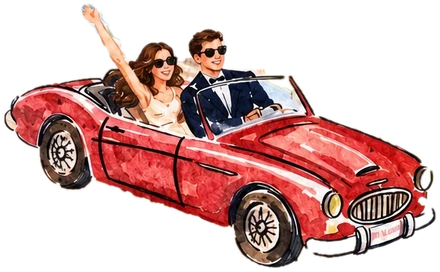
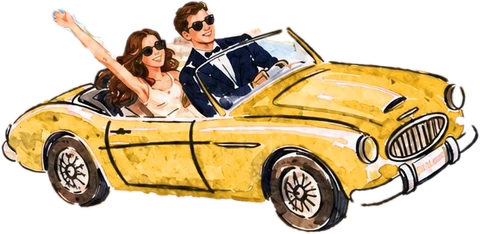
v2: yellow convertible level on the road, 'Wedding Day', gut feeling as a train ticket, watercolor spritz and testa di moro, travel page with a Benvenuti plane and painted day-trip stamps with links
Claude-Session: https://claude.ai/code/session_01UymhP7iFRcx3FYSxcPosG7

diff --git a/assets/js/art.js b/assets/js/art.js
@@ -51,12 +51,26 @@
     '<text font-size="11" letter-spacing="2"><textPath href="#pm-arc" startOffset="50%">SORRENTO</textPath></text>' +
     '<text x="60" y="64" font-size="12">1·10·27</text><text x="60" y="94" font-size="9" letter-spacing="2">ITALIA</text></g></symbol>';
 
+  // a watercolor treatment: wobbly edges, uneven pigment and a darker rim
+  // where the wash dries, so the little pieces sit with the painted car
+  var paint = '<filter id="wc" x="-10%" y="-10%" width="120%" height="120%" color-interpolation-filters="sRGB">' +
+    '<feTurbulence type="fractalNoise" baseFrequency="0.04" numOctaves="3" seed="3" result="n"/>' +
+    '<feDisplacementMap in="SourceGraphic" in2="n" scale="5" xChannelSelector="R" yChannelSelector="G" result="d"/>' +
+    '<feTurbulence type="fractalNoise" baseFrequency="0.12" numOctaves="2" seed="8" result="g"/>' +
+    '<feColorMatrix in="g" type="matrix" values="0 0 0 0 0  0 0 0 0 0  0 0 0 0 0  0 0 0 -0.55 1.3" result="ga"/>' +
+    '<feComposite in="d" in2="ga" operator="in" result="tex"/>' +
+    '<feMorphology in="d" operator="erode" radius="1.4" result="er"/>' +
+    '<feComposite in="d" in2="er" operator="out" result="rim"/>' +
+    '<feColorMatrix in="rim" type="matrix" values="0.7 0 0 0 0  0 0.7 0 0 0  0 0 0.7 0 0  0 0 0 0.55 0" result="rim2"/>' +
+    '<feComponentTransfer in="tex" result="tex2"><feFuncA type="linear" slope="0.88"/></feComponentTransfer>' +
+    '<feMerge><feMergeNode in="tex2"/><feMergeNode in="rim2"/></feMerge></filter>';
+
   /* Little Amalfi pieces in the same flat style as the stamp. */
   var PERI = "#7d9be6", CREAM = "#fcefdf", ORANGE = "#f07f22", INK = "#17245a";
 
   // a testa di moro: the painted ceramic head vases of Sicily and the coast,
   // a nod to Capo Santa Fortunata; drawn in blue-and-white majolica
-  var moor = '<symbol id="moor" viewBox="0 0 100 140">' +
+  var moor = '<symbol id="moor" viewBox="0 0 100 140"><g filter="url(#wc)">' +
     '<path d="M24 46C18 34 26 22 34 28C34 16 46 12 50 24C54 12 66 16 66 28C74 22 82 34 76 46Z" fill="' + PERI + '"/>' +
     '<ellipse cx="32" cy="28" rx="9" ry="7" fill="' + LEMON + '"/><ellipse cx="50" cy="20" rx="9" ry="7" fill="' + LEMON + '"/><ellipse cx="68" cy="28" rx="9" ry="7" fill="' + LEMON + '"/>' +
     '<path d="M28 36L23 24M72 36L77 24" stroke="' + COBALT + '" stroke-width="3" stroke-linecap="round"/>' +
@@ -69,7 +83,7 @@
     '<path d="M38 99L35 116H65L62 99Z" fill="' + COBALT + '"/>' +
     '<rect x="28" y="116" width="44" height="10" rx="3" fill="' + GOLD + '"/>' +
     '<path d="M38 107H62" stroke="' + CREAM + '" stroke-width="2" stroke-dasharray="2 4" stroke-linecap="round"/>' +
-    '</symbol>';
+    '</g></symbol>';
 
   // an Aperol spritz with a slice of orange
   function spritzGlass(x, a) {
@@ -82,11 +96,81 @@
       '<circle cx="62" cy="22" r="11" fill="' + ORANGE + '" stroke="#fff" stroke-width="2"/><path d="M62 13V31M53 22H71M56 16L68 28M68 16L56 28" stroke="#fff" stroke-width="1.2"/>' +
       '</g>';
   }
-  var spritz = '<symbol id="spritz" viewBox="0 -4 180 114">' + spritzGlass(4, -12) + spritzGlass(86, 12) +
-    '<path d="M85 4V14M76 8L80 16M94 8L90 16" stroke="' + GOLD + '" stroke-width="3" stroke-linecap="round"/></symbol>';
+  var spritz = '<symbol id="spritz" viewBox="0 -4 180 114"><g filter="url(#wc)">' + spritzGlass(4, -12) + spritzGlass(86, 12) +
+    '<path d="M85 4V14M76 8L80 16M94 8L90 16" stroke="' + GOLD + '" stroke-width="3" stroke-linecap="round"/></g></symbol>';
 
+
+  // a little plane towing a banner across the travel page, like the one
+  // on the couple's painted save-the-date
+  var plane = '<symbol id="plane" viewBox="0 0 300 70"><g filter="url(#wc)">' +
+    '<path d="M70 34H200" stroke="' + INK + '" stroke-width="1.5" opacity=".6"/>' +
+    '<path d="M196 18H290L280 34L290 50H196Z" fill="' + LEMON + '"/>' +
+    '<text x="243" y="40" text-anchor="middle" font-family="Norican, cursive" font-size="17" fill="' + COBALT + '">Benvenuti!</text>' +
+    '<path d="M8 30C8 24 16 22 30 22H58C66 22 70 28 70 32C70 38 64 40 56 40H24C14 40 8 36 8 30Z" fill="' + COBALT + '"/>' +
+    '<path d="M30 30L22 8H32L46 30Z" fill="' + PERI + '"/><path d="M30 34L20 56H30L46 34Z" fill="' + PERI + '"/>' +
+    '<path d="M8 30L2 18H10L16 28Z" fill="' + PERI + '"/>' +
+    '<circle cx="54" cy="29" r="4" fill="#fff"/><path d="M70 22V42" stroke="' + INK + '" stroke-width="3" stroke-linecap="round"/>' +
+    '</g></symbol>';
+
+  /* Stamp pictures for the travel page's day trips, painted in the same
+     watercolor treatment: Capri, Positano, Pompeii, the Path of the Gods,
+     limoncello and the Bagni della Regina Giovanna. */
+  var SKY = "#d6e1f7", SEA = "#4c72d0", TERRA = "#c8673e", OLIVE = "#7f9a52", STONE = "#e6d6b8";
+  function view(id, body) {
+    return '<symbol id="' + id + '" viewBox="0 0 120 100"><g filter="url(#wc)"><rect width="120" height="100" fill="' + SKY + '"/>' + body + '</g></symbol>';
+  }
+  var waves = '<path d="M0 84C10 81 18 87 28 84S46 81 56 84S74 87 84 84S102 81 120 84" fill="none" stroke="' + PERI + '" stroke-width="2.5" stroke-linecap="round"/>';
+  var trips =
+    view("trip-capri",
+      '<circle cx="94" cy="24" r="10" fill="' + LEMON + '"/>' +
+      '<path d="M0 70H120V100H0Z" fill="' + SEA + '"/>' +
+      '<path d="M14 72C16 50 24 40 30 40C36 40 40 54 42 72Z" fill="' + STONE + '"/>' +
+      '<path d="M44 72C46 44 54 30 60 30C68 30 72 48 74 72Z" fill="#d8c29c"/>' +
+      '<path d="M78 72C80 56 86 50 92 50C98 50 102 60 104 72Z" fill="' + STONE + '"/>' +
+      '<path d="M52 72C56 64 64 64 66 72Z" fill="' + SEA + '"/>' + waves +
+      '<path d="M86 78L88 66L94 77Z" fill="#fff"/><path d="M82 79H98L95 82H85Z" fill="' + COBALT + '"/>') +
+    view("trip-positano",
+      '<path d="M0 30C30 20 60 26 90 18L120 14V100H0Z" fill="' + OLIVE + '" opacity=".7"/>' +
+      '<path d="M0 74H120V100H0Z" fill="' + SEA + '"/>' +
+      '<g>' +
+      '<rect x="16" y="56" width="16" height="16" fill="' + LEMON + '"/><rect x="34" y="50" width="14" height="22" fill="' + CREAM + '"/>' +
+      '<rect x="50" y="44" width="16" height="28" fill="' + TERRA + '"/><rect x="68" y="52" width="14" height="20" fill="#fff"/>' +
+      '<rect x="84" y="46" width="18" height="26" fill="' + LEMON + '"/><rect x="40" y="34" width="14" height="14" fill="#fff"/>' +
+      '<rect x="60" y="30" width="14" height="14" fill="' + CREAM + '"/><rect x="78" y="34" width="12" height="12" fill="' + TERRA + '"/>' +
+      '<path d="M54 44C54 32 66 32 66 44Z" fill="' + COBALT + '"/><path d="M58 40C58 36 62 36 62 40" stroke="' + GOLD + '" stroke-width="1.5" fill="none"/>' +
+      '</g>' +
+      '<path d="M20 62h3M38 58h3M72 58h3M88 54h3M88 62h3M44 40h3M64 36h3" stroke="' + INK + '" stroke-width="2" opacity=".6"/>' + waves) +
+    view("trip-pompeii",
+      '<path d="M0 62L34 22C38 18 42 18 46 22L84 62Z" fill="#9a8f9c"/>' +
+      '<path d="M30 26C30 18 36 12 42 14C46 8 54 10 54 16" fill="none" stroke="#fff" stroke-width="4" stroke-linecap="round" opacity=".8"/>' +
+      '<path d="M0 62H120V100H0Z" fill="' + STONE + '"/>' +
+      '<rect x="56" y="34" width="56" height="7" fill="#d8c29c"/>' +
+      '<rect x="60" y="41" width="8" height="40" fill="#f3e9d6"/><rect x="78" y="41" width="8" height="40" fill="#f3e9d6"/><rect x="96" y="41" width="8" height="34" fill="#f3e9d6"/>' +
+      '<rect x="56" y="81" width="52" height="5" fill="#d8c29c"/>' +
+      '<path d="M10 90H40" stroke="#d8c29c" stroke-width="3" stroke-linecap="round"/>') +
+    view("trip-gods",
+      '<circle cx="26" cy="22" r="10" fill="' + LEMON + '"/>' +
+      '<path d="M0 60L30 34L52 48L78 26L120 52V100H0Z" fill="' + OLIVE + '"/>' +
+      '<path d="M0 78H120V100H0Z" fill="' + SEA + '"/>' +
+      '<path d="M10 70C30 62 44 60 58 52S86 40 108 46" fill="none" stroke="' + CREAM + '" stroke-width="2.5" stroke-dasharray="4 4" stroke-linecap="round"/>' +
+      '<path d="M86 44L84 38L88 38Z" fill="' + COBALT + '"/><circle cx="86" cy="35" r="2.4" fill="' + COBALT + '"/>' + waves) +
+    view("trip-lemons",
+      '<path d="M0 72H120V100H0Z" fill="' + STONE + '"/>' +
+      '<path d="M50 20H62V30C70 36 72 44 72 54V84H40V54C40 44 42 36 50 30Z" fill="#f7e48a"/>' +
+      '<path d="M50 14H62V22H50Z" fill="' + COBALT + '"/>' +
+      '<rect x="44" y="52" width="24" height="16" rx="2" fill="#fff"/><path d="M48 60H64" stroke="' + COBALT + '" stroke-width="2"/>' +
+      '<ellipse cx="88" cy="80" rx="12" ry="9" fill="' + LEMON + '"/><ellipse cx="24" cy="82" rx="11" ry="8" fill="' + LEMON + '"/>' +
+      '<path d="M84 70C90 62 98 62 102 66C96 70 90 72 84 70Z" fill="' + OLIVE + '"/><path d="M28 74C22 66 14 66 10 70C16 74 22 76 28 74Z" fill="' + OLIVE + '"/>') +
+    view("trip-bagni",
+      '<path d="M0 40C20 34 34 40 44 46V100H0Z" fill="' + STONE + '"/>' +
+      '<path d="M120 36C100 32 86 40 78 46V100H120Z" fill="' + STONE + '"/>' +
+      '<path d="M40 50C46 36 74 36 82 50V58H40Z" fill="' + STONE + '"/>' +
+      '<path d="M46 58C48 46 74 46 76 58Z" fill="' + SKY + '"/>' +
+      '<path d="M22 66C40 60 82 60 100 66C96 82 74 88 60 88C44 88 26 82 22 66Z" fill="#5fc0d0"/>' +
+      '<path d="M34 72C44 70 52 74 62 72S80 70 88 72" stroke="#fff" stroke-width="2" fill="none" opacity=".8" stroke-linecap="round"/>' +
+      '<circle cx="60" cy="74" r="2.6" fill="' + TERRA + '"/>');
 
   document.body.insertAdjacentHTML("afterbegin",
     '<svg xmlns="http://www.w3.org/2000/svg" width="0" height="0" style="position:absolute" aria-hidden="true" focusable="false"><defs>' +
-    sprig + bow + swash + postmark + stampView + moor + spritz + "</defs></svg>");
+    sprig + bow + swash + postmark + stampView + paint + moor + spritz + trips + plane + "</defs></svg>");
 })();

diff --git a/assets/css/styles.css b/assets/css/styles.css
@@ -406,7 +406,7 @@ html.paged .fade.shown { opacity: 1; transform: none; }
 /* little Amalfi touches: the two of us driving in, testa di moro vases, spritzes */
 .doodle { display: block; overflow: visible; pointer-events: none; }
 .story-road { width: min(100%, 300px); display: flex; justify-content: center; border-bottom: 2px dashed var(--gold); margin-top: 2px; }
-.story-car { width: 200px; height: auto; margin-bottom: -6px; }
+.story-car { width: 210px; height: auto; margin-bottom: -2px; }
 html.paged .page-story.shown .story-car { animation: drive-in 2.8s cubic-bezier(0.25, 0.7, 0.25, 1) 0.6s both, putt 0.4s ease-in-out 0.6s 7; }
 @keyframes drive-in { from { translate: -190px 0; opacity: 0; } 15% { opacity: 1; } }
 @keyframes putt { 50% { margin-bottom: -4px; } }
@@ -439,6 +439,60 @@ html.paged .page-venue:not(.shown) .gallery figure:last-child { transform: trans
 @media (min-width: 900px) {
   .story { grid-template-columns: 300px minmax(0, 32rem); justify-content: center; column-gap: clamp(48px, 6vw, 80px); row-gap: 14px; align-items: center; align-content: center; }
   .story .arch-wrap { grid-row: 1 / span 5; width: 100%; margin-bottom: 0; align-self: center; }
+}
+
+/* Gut feeling: a cream train ticket to Sorrento on the stripes, with a
+   lemon-coloured stub, notches where it tears off and a perforated line. */
+.ticket {
+  --stub: 200px;
+  --notch: 16px;
+  position: relative;
+  max-width: 860px;
+  margin: 0 auto;
+  display: grid;
+  grid-template-columns: var(--stub) minmax(0, 1fr);
+  background: var(--card);
+  border-radius: 18px;
+  -webkit-mask:
+    radial-gradient(circle var(--notch) at var(--stub) 0, #0000 98%, #000) top / 100% 51% no-repeat,
+    radial-gradient(circle var(--notch) at var(--stub) 100%, #0000 98%, #000) bottom / 100% 51% no-repeat;
+  mask:
+    radial-gradient(circle var(--notch) at var(--stub) 0, #0000 98%, #000) top / 100% 51% no-repeat,
+    radial-gradient(circle var(--notch) at var(--stub) 100%, #0000 98%, #000) bottom / 100% 51% no-repeat;
+}
+.page-reply .wrap { filter: drop-shadow(0 18px 30px rgba(23, 36, 90, 0.28)); }
+.ticket-stub {
+  display: grid; align-content: center; justify-items: center; gap: 10px;
+  padding: 28px 18px;
+  background: var(--lemon-soft);
+  border-right: 3px dotted rgba(29, 63, 189, 0.35);
+  border-radius: 18px 0 0 18px;
+  text-align: center; color: var(--cobalt);
+}
+.stub-kind { font-family: var(--script); font-size: 2.1rem; line-height: 1; }
+.stub-route, .stub-date, .stub-no { font-size: 0.75rem; letter-spacing: 0.2em; text-transform: uppercase; font-weight: 500; }
+.stub-route i { font-style: normal; color: var(--gold); }
+.stub-date { font-size: 0.95rem; letter-spacing: 0.16em; padding: 4px 10px; border: 1.5px solid var(--cobalt); border-radius: 4px; }
+.stub-no { color: var(--ink-soft); font-size: 0.68rem; }
+.ticket .feel-panel { padding: clamp(28px, 5vw, 48px) clamp(22px, 5vw, 52px); max-width: none; }
+.ticket .spritz { width: 120px; height: 76px; margin: 2px 0; }
+@media (max-width: 700px) {
+  .ticket {
+    --stub: 0px;
+    grid-template-columns: minmax(0, 1fr);
+    -webkit-mask:
+      radial-gradient(circle var(--notch) at 0 152px, #0000 98%, #000) left / 51% 100% no-repeat,
+      radial-gradient(circle var(--notch) at 100% 152px, #0000 98%, #000) right / 51% 100% no-repeat;
+    mask:
+      radial-gradient(circle var(--notch) at 0 152px, #0000 98%, #000) left / 51% 100% no-repeat,
+      radial-gradient(circle var(--notch) at 100% 152px, #0000 98%, #000) right / 51% 100% no-repeat;
+  }
+  .ticket-stub {
+    height: 152px; grid-template-columns: auto auto; column-gap: 18px; row-gap: 6px; align-content: center;
+    border-right: 0; border-bottom: 3px dotted rgba(29, 63, 189, 0.35); border-radius: 18px 18px 0 0; padding: 16px;
+  }
+  .ticket-stub .spritz { grid-row: 1 / span 4; width: 96px; height: 61px; }
+  .ticket-stub > span { justify-self: start; }
 }
 
 /* Gut feeling */
@@ -599,6 +653,48 @@ td.num { font-variant-numeric: tabular-nums; white-space: nowrap; font-weight: 5
 .weather div { display: grid; }
 .weather b { font-weight: 500; font-size: var(--step-3); line-height: 1.1; font-variant-numeric: tabular-nums; color: var(--cobalt); }
 .weather span { font-size: var(--step--1); color: var(--ink-soft); }
+
+/* the little plane drifts across the top of the travel page, towing its banner */
+.page-intro { overflow: hidden; }
+.intro-plane { position: absolute; top: clamp(24px, 6vh, 64px); right: 6%; width: clamp(220px, 30vw, 340px); height: auto; aspect-ratio: 300 / 70; }
+html.paged .page-intro.shown .intro-plane { animation: fly-in 3.5s cubic-bezier(0.2, 0.7, 0.2, 1) both, float 5s ease-in-out 3.5s infinite; }
+@keyframes fly-in { from { translate: 60vw 20px; } }
+@keyframes float { 50% { translate: 0 -6px; } }
+@media (max-width: 760px) { .intro-plane { position: relative; top: 0; right: auto; display: block; margin: 0 0 8px auto; width: 220px; } }
+
+/* Day trips: cream cards on the stripes, each with a perforated stamp
+   painted with the place, set at a slight tilt like stamps on a letter. */
+.explore-head { max-width: 40rem; margin: 0 auto 36px; padding: 22px 28px 26px; text-align: center; display: grid; gap: 4px; background: var(--card); border-radius: 18px; }
+.explore-head p:last-child { color: var(--ink-soft); }
+.trips { display: grid; grid-template-columns: repeat(auto-fit, minmax(250px, 1fr)); gap: 26px; }
+.trip {
+  position: relative; display: grid; gap: 6px; align-content: start;
+  padding: 22px 22px 20px; background: var(--card); border-radius: 18px;
+  box-shadow: 0 14px 28px rgba(23, 36, 90, 0.22);
+}
+.trip-stamp {
+  --r: 4px;
+  justify-self: start; width: 132px; padding: 8px 8px 9px; margin: -46px 0 8px -4px;
+  background: #fffdf8;
+  -webkit-mask:
+    linear-gradient(#000 0 0) center / calc(100% - 2 * var(--r)) calc(100% - 2 * var(--r)) no-repeat,
+    radial-gradient(circle closest-side, #000 97%, #0000) 0 0 / calc(2 * var(--r) + 2px) calc(2 * var(--r) + 2px) round;
+  mask:
+    linear-gradient(#000 0 0) center / calc(100% - 2 * var(--r)) calc(100% - 2 * var(--r)) no-repeat,
+    radial-gradient(circle closest-side, #000 97%, #0000) 0 0 / calc(2 * var(--r) + 2px) calc(2 * var(--r) + 2px) round;
+  transform: rotate(-4deg);
+  transition: transform 0.4s ease;
+}
+.trip:nth-child(2n) .trip-stamp { transform: rotate(3deg); }
+.trip:nth-child(3n) .trip-stamp { transform: rotate(-2deg); }
+.trip:hover .trip-stamp { transform: rotate(0) scale(1.04); }
+.trip-stamp svg { display: block; width: 100%; height: auto; aspect-ratio: 120 / 100; }
+.trips { padding-top: 34px; }
+.trip-meta { font-size: 0.75rem; letter-spacing: 0.2em; text-transform: uppercase; font-weight: 500; color: #b97a00; }
+.trip h3 { font-family: var(--script); font-weight: 400; font-size: 1.9rem; line-height: 1.1; color: var(--cobalt); }
+.trip p:not(.trip-meta) { font-size: var(--step--1); color: var(--ink-soft); }
+.trip-link { justify-self: start; margin-top: 6px; font-size: 0.8125rem; letter-spacing: 0.12em; text-transform: uppercase; font-weight: 500; text-decoration: none; border-bottom: 2px solid var(--gold); padding-bottom: 2px; }
+.trip-link:hover { color: var(--cobalt-deep); border-color: var(--cobalt); }
 
 /* ---------- Footer ---------- */
 .footer-inner {

diff --git a/travel.html b/travel.html
@@ -17,6 +17,7 @@
 
 <main>
   <section class="page page-intro fade">
+    <svg class="doodle intro-plane" viewBox="0 0 300 70" aria-hidden="true" focusable="false"><use href="#plane"/></svg>
     <div class="wrap section-head">
       <p class="script">Buon viaggio!</p>
       <h1 class="page-title">Getting to Sorrento</h1>
@@ -114,19 +115,57 @@
     </div>
   </section>
 
-  <section class="page fade" id="explore">
+  <!-- Day trips as a sheet of painted stamps, each with how far it is and a link. -->
+  <section class="page page-explore stripes fade" id="explore">
     <div class="wrap">
-      <div class="section-head">
+      <div class="explore-head">
+        <p class="script">Andiamo!</p>
         <h2>While you're here</h2>
-        <p>A few of our favorite ways to spend a free day.</p>
+        <p>A few of our favorite ways to spend a free day on the coast.</p>
       </div>
-      <div class="tips">
-        <div><h3>Capri</h3><p>About 25 minutes by ferry from Sorrento's Marina Piccola. Go early to beat the crowds at the Blue Grotto.</p></div>
-        <div><h3>Positano &amp; Amalfi</h3><p>Take the ferry along the coast for the best views, then wander the towns and come back by boat or bus.</p></div>
-        <div><h3>Pompeii</h3><p>About 30 minutes away on the Circumvesuviana. Allow half a day and bring water.</p></div>
-        <div><h3>Path of the Gods</h3><p>A famous clifftop hike above Positano. Moderate, about three hours, and unforgettable.</p></div>
-        <div><h3>Lemons, everywhere</h3><p>Visit a lemon grove, try a cooking class, and taste limoncello where it was born.</p></div>
-        <div><h3>Bagni della Regina Giovanna</h3><p>A natural rock pool and Roman ruins a short walk from town. Perfect for a swim.</p></div>
+      <div class="trips">
+        <article class="trip">
+          <div class="trip-stamp" aria-hidden="true"><svg viewBox="0 0 120 100" focusable="false"><use href="#trip-capri"/></svg></div>
+          <p class="trip-meta">25 min by ferry</p>
+          <h3>Capri</h3>
+          <p>Boats leave Sorrento's Marina Piccola all morning. Go early to beat the crowds at the Blue Grotto, then ride the chairlift up Monte Solaro.</p>
+          <a class="trip-link" href="https://www.google.com/maps/search/?api=1&amp;query=Marina+Piccola+Sorrento" target="_blank" rel="noopener">Ferry dock on the map <span aria-hidden="true">→</span></a>
+        </article>
+        <article class="trip">
+          <div class="trip-stamp" aria-hidden="true"><svg viewBox="0 0 120 100" focusable="false"><use href="#trip-positano"/></svg></div>
+          <p class="trip-meta">1 hr by boat or bus</p>
+          <h3>Positano &amp; Amalfi</h3>
+          <p>Take the ferry along the coast for the best views, wander the stairways of both towns, and come back by boat at sunset.</p>
+          <a class="trip-link" href="https://www.google.com/maps/search/?api=1&amp;query=Positano+Italy" target="_blank" rel="noopener">Positano on the map <span aria-hidden="true">→</span></a>
+        </article>
+        <article class="trip">
+          <div class="trip-stamp" aria-hidden="true"><svg viewBox="0 0 120 100" focusable="false"><use href="#trip-pompeii"/></svg></div>
+          <p class="trip-meta">30 min by train</p>
+          <h3>Pompeii</h3>
+          <p>A whole Roman city under Vesuvius, an easy ride on the Circumvesuviana. Allow half a day and bring water and a hat.</p>
+          <a class="trip-link" href="https://pompeiisites.org/en/" target="_blank" rel="noopener">Tickets and hours <span aria-hidden="true">→</span></a>
+        </article>
+        <article class="trip">
+          <div class="trip-stamp" aria-hidden="true"><svg viewBox="0 0 120 100" focusable="false"><use href="#trip-gods"/></svg></div>
+          <p class="trip-meta">3 hr hike</p>
+          <h3>Path of the Gods</h3>
+          <p>The famous clifftop trail from Bomerano down toward Positano. Moderate, with views you won't forget. Wear real shoes.</p>
+          <a class="trip-link" href="https://www.google.com/maps/search/?api=1&amp;query=Sentiero+degli+Dei+Bomerano" target="_blank" rel="noopener">Trailhead on the map <span aria-hidden="true">→</span></a>
+        </article>
+        <article class="trip">
+          <div class="trip-stamp" aria-hidden="true"><svg viewBox="0 0 120 100" focusable="false"><use href="#trip-lemons"/></svg></div>
+          <p class="trip-meta">In town</p>
+          <h3>Lemons &amp; limoncello</h3>
+          <p>Walk through a lemon grove, try a cooking class, and taste limoncello where it was born.</p>
+          <a class="trip-link" href="https://www.google.com/maps/search/?api=1&amp;query=I+Giardini+di+Cataldo+Sorrento" target="_blank" rel="noopener">A lemon grove in Sorrento <span aria-hidden="true">→</span></a>
+        </article>
+        <article class="trip">
+          <div class="trip-stamp" aria-hidden="true"><svg viewBox="0 0 120 100" focusable="false"><use href="#trip-bagni"/></svg></div>
+          <p class="trip-meta">20 min walk</p>
+          <h3>Bagni della Regina Giovanna</h3>
+          <p>A natural rock pool ringed by Roman ruins at the edge of town. Bring a towel: it's the best swim in Sorrento.</p>
+          <a class="trip-link" href="https://www.google.com/maps/search/?api=1&amp;query=Bagni+della+Regina+Giovanna+Sorrento" target="_blank" rel="noopener">Rock pool on the map <span aria-hidden="true">→</span></a>
+        </article>
       </div>
     </div>
   </section>

diff --git a/index.html b/index.html
@@ -100,11 +100,11 @@
           <div class="date">
             <span class="date-num"><b>1</b><svg class="swash" aria-hidden="true" focusable="false"><use href="#swash"/></svg></span>
             <span class="date-it">Friday · October</span>
-            <span class="date-en">We say yes</span>
+            <span class="date-en">Wedding Day</span>
           </div>
         </div>
         <p class="story-note">We know Italy is a long way to come, so we're telling you early. Formal invitation to follow.</p>
-        <div class="story-road"><img class="story-car" src="assets/img/us-car.webp" alt="McKenna and Chandler waving from a red convertible" width="440" height="272" loading="lazy"></div>
+        <div class="story-road"><img class="story-car" src="assets/img/us-car.webp" alt="McKenna and Chandler waving from a yellow convertible" width="480" height="234" loading="lazy"></div>
       </div>
     </section>
 
@@ -139,8 +139,16 @@
 
     <section class="page page-reply stripes fade" id="reply">
       <div class="wrap">
-        <div class="feel-panel scallop">
-          <svg class="doodle spritz" viewBox="0 -4 180 114" aria-hidden="true" focusable="false"><use href="#spritz"/></svg>
+        <!-- A train ticket to Sorrento: a stub on the left, the question on the right. -->
+        <div class="ticket">
+          <div class="ticket-stub" aria-hidden="true">
+            <span class="stub-kind">Biglietto</span>
+            <svg class="doodle spritz" viewBox="0 -4 180 114" focusable="false"><use href="#spritz"/></svg>
+            <span class="stub-route">Casa <i>→</i> Sorrento</span>
+            <span class="stub-date">01 · 10 · 2027</span>
+            <span class="stub-no">Andata · N° 0110</span>
+          </div>
+          <div class="feel-panel">
           <p class="script" id="feel-hello">Ciao!</p>
           <h2>Have a gut feeling?</h2>
           <p class="feel-sub">This isn't your RSVP. It just helps us plan.</p>
@@ -160,7 +168,7 @@
           </div>
           <button class="button wide send" type="button" id="feel-send" disabled>Send my answer</button>
           <p class="feel-status" id="feel-status" role="status"></p>
-          <svg class="bow" viewBox="0 0 120 40" aria-hidden="true" focusable="false"><use href="#bow"/></svg>
+          </div>
         </div>
       </div>
     </section>
